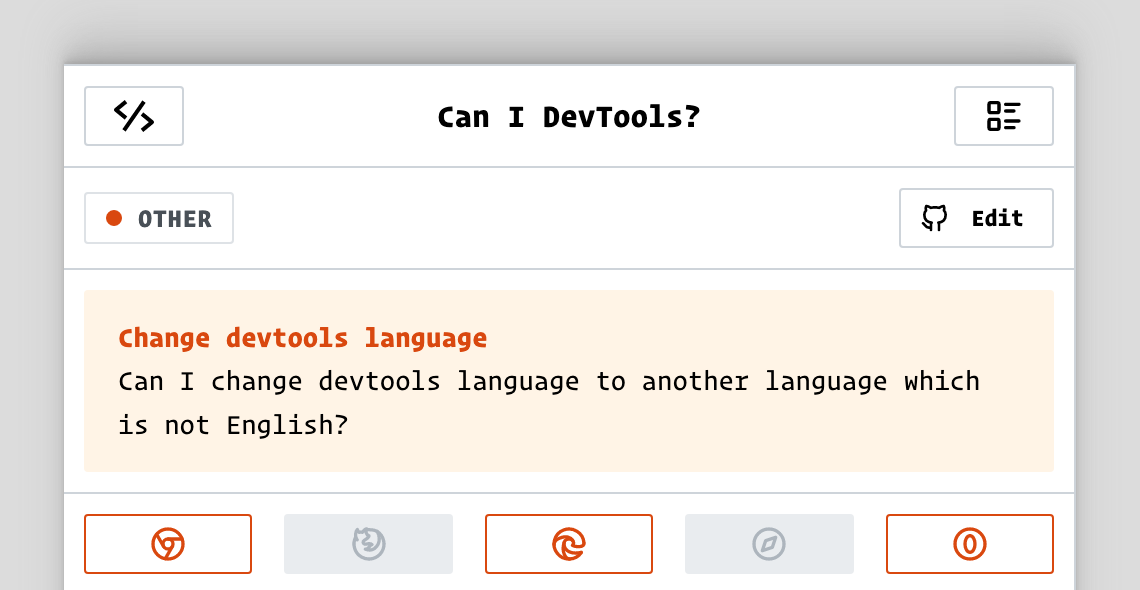
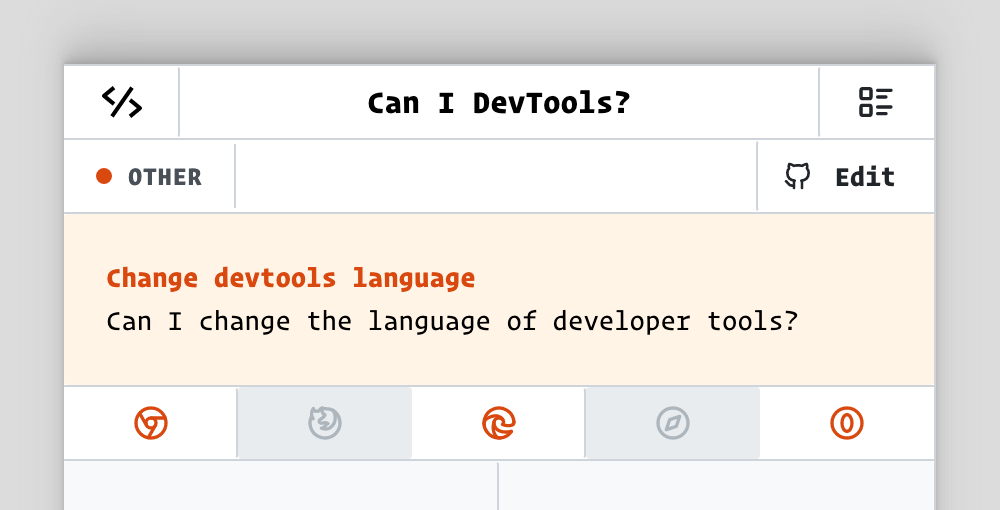
change devtools language

Changed region(s): [[0.031, 0.0882, 0.961, 1.0], [0.372, 0.1765, 0.651, 0.2353], [0.403, 0.9412, 0.434, 0.9706]]

diff --git a/README.md b/README.md
@@ -222,13 +222,16 @@
  1. In the **Styles** pane, hold the `Shift` key and click on the color preview box to cycle through the various color formats like `rgb`, `hsl`, and `hwb`.
 2. Alternatively, you can change the color format in the [color picker](https://developer.chrome.com/docs/devtools/css/reference/#color-picker) using the up-down arrow keys.
 ## 17. Change devtools language 
- Can I change devtools language to another language which is not English? 
+ Can I change the language of developer tools? 
 - [Chrome](https://canidev.tools/change-devtools-language/chrome) 
- 1. Open **Settings** (`F1` or `Shift+?`) > Preferences > In the **Appearance** section, choose a language from the **Language** dropdown > Reload DevTools to apply the new language.
+ 1. Open **Settings** (`F1` or `Shift+?`) > Preferences > Under **Languages**, select the language from the dropdown > Reload DevTools.
+2. Alternatively, Run **Command** (`Cmd+Shift+P` or `Ctrl+Shift+P`) > Input the language > select the language labelled "Appearance" > Reload DevTools. 
 - [Edge](https://canidev.tools/change-devtools-language/edge) 
- 1. Open **Settings** (`F1` or `Shift+?`) > Preferences > In the **Appearance** section, choose a language from the **Language** dropdown > Reload DevTools to apply the new language.
+ 1. Open **Settings** (`F1` or `Shift+?`) > Preferences > Under **Languages**, select the language from the dropdown > Reload DevTools.
+2. Alternatively, Run **Command** (`Cmd+Shift+P` or `Ctrl+Shift+P`) > Input the language > select the language labelled "Appearance" > Reload DevTools. 
 - [Opera](https://canidev.tools/change-devtools-language/opera) 
- 1. Open **Settings** (`F1` or `Shift+?`) > Preferences > In the **Appearance** section, choose a language from the **Language** dropdown > Reload DevTools to apply the new language.
+ 1. Open **Settings** (`F1` or `Shift+?`) > Preferences > Under **Languages**, select the language from the dropdown > Reload DevTools.
+2. Alternatively, Run **Command** (`Cmd+Shift+P` or `Ctrl+Shift+P`) > Input the language > select the language labelled "Appearance" > Reload DevTools. 
 ## 18. Clear command history 
  Can I clear the command history of the console? 
 - [Chrome](https://canidev.tools/clear-command-history/chrome) 
